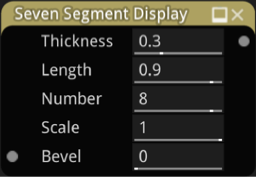
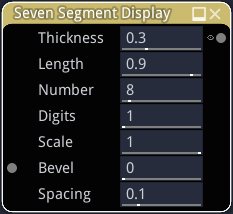
Made seven segment display node multi digit, and added "7" alias.

diff --git a/material_maker/doc/node_pattern_seven_segment_display.rst b/material_maker/doc/node_pattern_seven_segment_display.rst
@@ -1,5 +1,5 @@
 Seven segment display node
-~~~~~~~~~~
+~~~~~~~~~~~~~~~~~~~~~~~~~~
 
 The **Seven Segment Display** node outputs a seven segment display with variable weight(segment length/thickness)
 
@@ -27,9 +27,13 @@ The **Seven Segment Display** node accepts the following parameters:
 
 * The *Number* parameter specifies the number on the display.
 
+* The *Digits* parameter specifies the minimum number of digits on the display.
+
 * The *Scale* parameter controls the scale of the output texture.
 
 * the *Bevel* parameter controls the width of the edge of each segment.
+
+* the *Spacing* parameter controls the spacing between digits on the display.
 
 Example images
 ++++++++++++++
